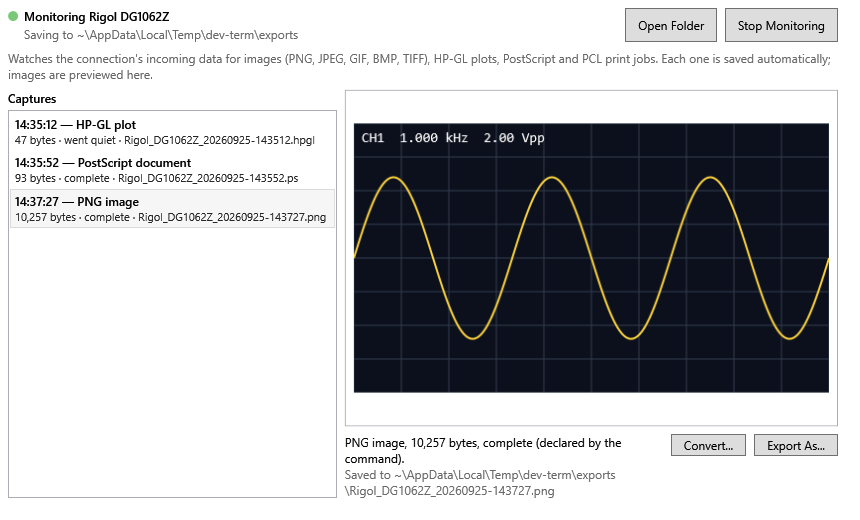
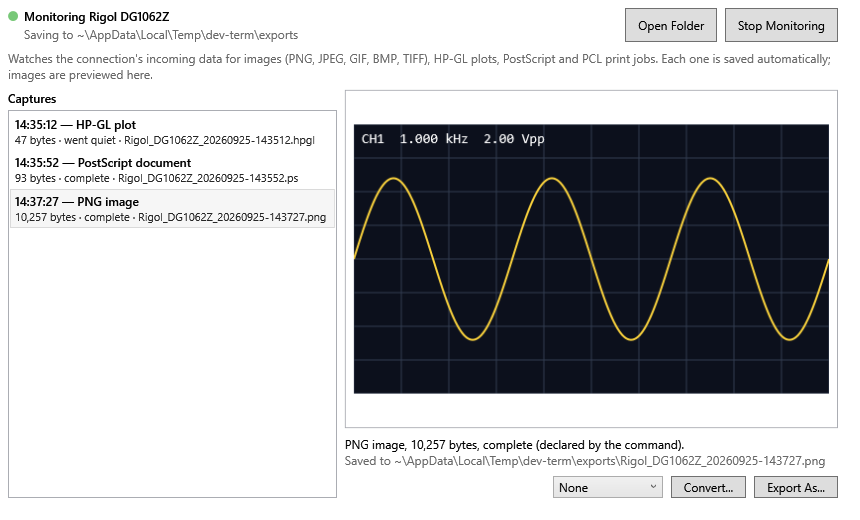
Fix Stream Monitor details layout, keep SVG lines visible, update guide and screenshots

diff --git a/src/DevTerm.Wpf/StreamMonitorWindow.xaml b/src/DevTerm.Wpf/StreamMonitorWindow.xaml
@@ -40,15 +40,15 @@
                 </ListBox>
             </DockPanel>
             <DockPanel Grid.Column="2">
-                <DockPanel DockPanel.Dock="Bottom" Margin="0,8,0,0">
-                    <Button x:Name="ExportAsButton" DockPanel.Dock="Right" VerticalAlignment="Top" Margin="8,0,0,0" Content="Export As..." Padding="12,2" IsEnabled="False" Click="ExportAs_Click" />
-                    <Button x:Name="ConvertButton" DockPanel.Dock="Right" VerticalAlignment="Top" Margin="8,0,0,0" Content="Convert..." Padding="12,2" IsEnabled="False" Click="Convert_Click" />
-                    <ComboBox x:Name="ConvertModeBox" DockPanel.Dock="Right" VerticalAlignment="Top" Margin="8,0,0,0" MinWidth="110" ToolTip="How Convert... turns a capture into another format" SelectionChanged="ConvertMode_Changed" />
-                    <StackPanel>
-                        <TextBlock x:Name="DetailText" TextWrapping="Wrap" />
-                        <TextBlock x:Name="SavedPathText" TextWrapping="Wrap" Foreground="{DynamicResource DevTerm.MutedForeground}" />
+                <StackPanel DockPanel.Dock="Bottom" Margin="0,8,0,0">
+                    <TextBlock x:Name="DetailText" TextWrapping="Wrap" />
+                    <TextBlock x:Name="SavedPathText" TextWrapping="Wrap" Foreground="{DynamicResource DevTerm.MutedForeground}" />
+                    <StackPanel Orientation="Horizontal" HorizontalAlignment="Right" Margin="0,8,0,0">
+                        <ComboBox x:Name="ConvertModeBox" VerticalAlignment="Top" MinWidth="110" ToolTip="How Convert... turns a capture into another format" SelectionChanged="ConvertMode_Changed" />
+                        <Button x:Name="ConvertButton" VerticalAlignment="Top" Margin="8,0,0,0" Content="Convert..." Padding="12,2" IsEnabled="False" Click="Convert_Click" />
+                        <Button x:Name="ExportAsButton" VerticalAlignment="Top" Margin="8,0,0,0" Content="Export As..." Padding="12,2" IsEnabled="False" Click="ExportAs_Click" />
                     </StackPanel>
-                </DockPanel>
+                </StackPanel>
                 <Border BorderBrush="{DynamicResource DevTerm.ControlBorder}" BorderThickness="1" Background="{DynamicResource DevTerm.ControlBackground}">
                     <Grid>
                         <Image x:Name="PreviewImage" Stretch="Uniform" StretchDirection="DownOnly" Margin="8" RenderOptions.BitmapScalingMode="HighQuality" />

diff --git a/src/DevTerm.Wpf/SvgPreview.cs b/src/DevTerm.Wpf/SvgPreview.cs
@@ -10,7 +10,7 @@ namespace DevTerm.Wpf;
 /// Draws the small SVG subset dev-term's own converters write (and most simple plots use) as a WPF
 /// <see cref="DrawingImage"/>: <c>path</c>, <c>line</c>, <c>polyline</c>, <c>polygon</c>, <c>rect</c>,
 /// <c>circle</c> and <c>ellipse</c>, with <c>stroke</c>, <c>fill</c> and <c>stroke-width</c>, scaled by
-/// the document's <c>viewBox</c> and drawn on white. Transforms, gradients, text, CSS and
+/// the document's <c>viewBox</c> and drawn on white (lines are never thinner than 1/250 of the drawing, so a plot in plotter units stays visible). Transforms, gradients, text, CSS and
 /// <c>use</c> are not drawn: WPF has no SVG decoder and dev-term takes no dependency for one, so
 /// anything else is skipped rather than guessed at.
 /// </summary>
@@ -30,13 +30,15 @@ internal static class SvgPreview
             }
 
             var bounds = Bounds(root);
+            // A plot in plotter units (HP-GL: thousands across) with a 1-unit pen is a hairline once scaled to fit, so keep lines visible.
+            var minStroke = Math.Max(bounds.Width, bounds.Height) / 250;
             var group = new DrawingGroup();
             group.Children.Add(new GeometryDrawing(Brushes.White, null, new RectangleGeometry(bounds)));
             foreach (var element in root.Descendants())
             {
                 if (Shape(element) is { } geometry)
                 {
-                    group.Children.Add(new GeometryDrawing(Fill(element), Stroke(element), geometry));
+                    group.Children.Add(new GeometryDrawing(Fill(element), Stroke(element, minStroke), geometry));
                 }
             }
 
@@ -111,10 +113,10 @@ internal static class SvgPreview
     /// <summary>SVG's default fill is black; a line has nothing to fill, and <c>fill="none"</c> means none.</summary>
     private static Brush? Fill(XElement e) => e.Name.LocalName is "line" ? null : Color(e.Attribute("fill")?.Value, Brushes.Black);
 
-    private static Pen? Stroke(XElement e)
+    private static Pen? Stroke(XElement e, double minWidth)
     {
         var brush = Color(e.Attribute("stroke")?.Value, null);
-        return brush is null ? null : new Pen(brush, Number(e, "stroke-width", 1)) { StartLineCap = PenLineCap.Round, EndLineCap = PenLineCap.Round, LineJoin = PenLineJoin.Round };
+        return brush is null ? null : new Pen(brush, Math.Max(Number(e, "stroke-width", 1), minWidth)) { StartLineCap = PenLineCap.Round, EndLineCap = PenLineCap.Round, LineJoin = PenLineJoin.Round };
     }
 
     private static Brush? Color(string? value, Brush? fallback)

diff --git a/tests/DevTerm.Wpf.Tests/StreamMonitorScreenshotTests.cs b/tests/DevTerm.Wpf.Tests/StreamMonitorScreenshotTests.cs
@@ -1,4 +1,5 @@
 using System.IO;
+using DevTerm.Configuration;
 using DevTerm.Devices.Scpi;
 using DevTerm.Test.Utilities;
 
@@ -78,6 +79,18 @@ public sealed class StreamMonitorScreenshotTests
             var hpglPath = Path.Combine(_imagesDirectory, "wpf-stream-monitor-hpgl.png");
             WpfScreenshot.Save(window, hpglPath);
             AssertRealImage(hpglPath);
+
+            window.CaptureList.SelectedIndex = 0;
+            window.ConvertMode = StreamConversionMode.InternalHpglToSvg;
+            await window.ConvertSelectedAsync();
+            StaTestRunner.DoEvents();
+            window.UpdateLayout();
+
+            Assert.IsNotNull(window.PreviewImage.Source);
+            Assert.IsTrue(window.Items[^1].Capture.Capture.Kind.IsSvg);
+            var svgPath = Path.Combine(_imagesDirectory, "wpf-stream-monitor-svg.png");
+            WpfScreenshot.Save(window, svgPath);
+            AssertRealImage(svgPath);
 
             window.Close();
         });

diff --git a/docs/specs/stream-monitor.md b/docs/specs/stream-monitor.md
@@ -26,7 +26,7 @@ The shared behavior lives outside both front ends: detection in `DevTerm.Core.St
 | Explanation | Two fixed lines | One wrapped line | What's detected, and (TUI) that there's no preview |
 | Capture list | `ListView`, one row per capture: `HH:mm:ss  TYPE  size  end  file` | `ListBox`, two lines per capture: `HH:mm:ss — {kind}` / `{size} bytes · {end} · {file}` | Oldest first; the newest is selected whenever one arrives. Keeps the last 100 (`StreamMonitor.MaxRetainedCaptures`) — saved files are never deleted |
 | Detail | Two lines under the list: `{kind}, {size} bytes, {end}[ (declared by the command)].` / `Saved as {file} in the folder above.` or `Not saved: {reason}` | Same first line; second line `Saved to {path}` or `Not saved: {reason}` | For the selected capture |
-| Preview | — | `Image` for BMP/PNG/JPEG/GIF/TIFF (WPF's built-in decoders, scaled down to fit, never up); otherwise a message | See States |
+| Preview | — | `Image` for BMP/PNG/JPEG/GIF/TIFF (WPF's built-in decoders, scaled down to fit, never up) or a converted SVG (`SvgPreview`); otherwise a message | See States |
 
 "End" is how the capture finished (`StreamMonitorCapture.EndLabel`):
 
@@ -118,7 +118,7 @@ quiet, hit the size limit, or was stopped mid-capture), or `…, but could not s
 - **TUI**: no preview by design (Terminal.Gui can't draw images); open the saved file. The window is
   modal like every other TUI screen, which is why closing it doesn't stop monitoring. Device names
   and file names are shown verbatim (`_` is not treated as a hotkey marker).
-- **WPF**: the capture list and preview split the width 2:3 (the list at least 220px, at most 420px; it was a fixed 320px), with a 640x380 minimum window size. A capture's second line is the item's own text color at 85% opacity rather than the muted color, so it stays readable on a selected row in a dark theme. Export As... stays button-sized at the top of the details area however many lines the details wrap to. Live preview + Open Folder + Export As..., per the proposal's "WPF can do better for free
+- **WPF**: the capture list and preview split the width 2:3 (the list at least 220px, at most 420px; it was a fixed 320px), with a 640x380 minimum window size. A capture's second line is the item's own text color at 85% opacity rather than the muted color, so it stays readable on a selected row in a dark theme. Export As... stays button-sized at the top of the details area however many lines the details wrap to. Live preview + Open Folder + Export As..., per the proposal's "WPF can do better for free Under the preview, the detail text spans the full width and the conversion drop-down, Convert... and Export As... sit on their own right-aligned row (they used to share the text's row, which squeezed it to a sliver at the minimum window size).
   where a format already has a native decoder".
 
 ## Converting a capture

diff --git a/docs/changes/2026-10-02.md b/docs/changes/2026-10-02.md
@@ -343,3 +343,5 @@ Expression picker: the TUI's **more...** list now shows signatures only (descrip
 Stream Monitor: the conversion mechanism can now be chosen in the window itself, next to Convert... (a drop-down in WPF, a **Convert as:** button opening a list in the TUI), instead of only through the profile's `Stream Convert Mode` (which the WPF Connection Editor doesn't expose). It starts on the profile's mode and applies to that window only. The "nothing configured" message now says where to choose one. Tests: `StreamMonitorModeTests.ModeButton_*`, `StreamMonitorWindowTests.ConvertModeBox_*`. The WPF test run used a separate `OutDir`, since the running app locks `bin`. The `docs/user-guide/images/*stream-monitor*` screenshots weren't regenerated.
 
 Stream Monitor: a successful Convert... now adds the converted file to the capture list as a selected entry marked `converted from ...` (`StreamMonitor.AddConverted`, `StreamMonitorCapture.ConvertedFrom`, new `StreamContentKind.Svg`), and WPF draws SVG in the preview pane with its own small renderer (`SvgPreview`; no new dependency). Tests: `ConvertSelectedAsync_AddsTheSvgToTheList_AndDrawsIt`, `SvgPreview_DrawsTheSupportedShapes_AndRejectsNonSvg`, `ConvertButton_AddsTheConvertedSvgToTheList`. The Stream Monitor screenshots were not regenerated.
+
+Stream Monitor (WPF): fixed the details column being squeezed to a sliver at the minimum window size by the conversion drop-down added earlier today (caught by `UiLayoutReviewTests.StreamMonitorWindow_WithCaptures`): the detail text now spans the width with the controls on their own row below. The SVG preview keeps lines at least 1/250 of the drawing thick, since a plot in plotter units with a 1-unit pen was an invisible hairline. New screenshot `wpf-stream-monitor-svg.png` (a converted HP-GL plot drawn in the preview); `wpf-stream-monitor*.png` regenerated; user guide and spec updated. The TUI screenshot was not regenerated, by choice.

diff --git a/docs/user-guide/stream-monitor.md b/docs/user-guide/stream-monitor.md
@@ -68,9 +68,20 @@ decodes itself (PNG, JPEG, GIF, BMP, TIFF):
 
 ![WPF Stream Monitor previewing a captured PNG screen dump](images/wpf-stream-monitor.png)
 
-HP-GL, PostScript and PCL are captured and saved, but can't be previewed yet:
+HP-GL, PostScript and PCL are captured and saved, but can't be previewed directly:
 
 ![WPF Stream Monitor with an HP-GL capture selected](images/wpf-stream-monitor-hpgl.png)
+
+To see an HP-GL plot, pick **HP-GL to SVG** in the conversion drop-down above the preview and press
+**Convert...**. The SVG is added to the list as a new entry (selected, "converted from HP-GL plot") and
+drawn in the preview:
+
+![WPF Stream Monitor drawing an HP-GL plot converted to SVG](images/wpf-stream-monitor-svg.png)
+
+The drawing is dev-term's own and covers the simple shapes plots use (paths, lines, polygons, rectangles,
+circles), with lines kept thick enough to see when a plot is in plotter units. The `.svg` file itself is
+saved next to the capture, so any SVG viewer opens it too. The TUI lists the converted file but doesn't
+draw it.
 
 The WPF window also has:
 
